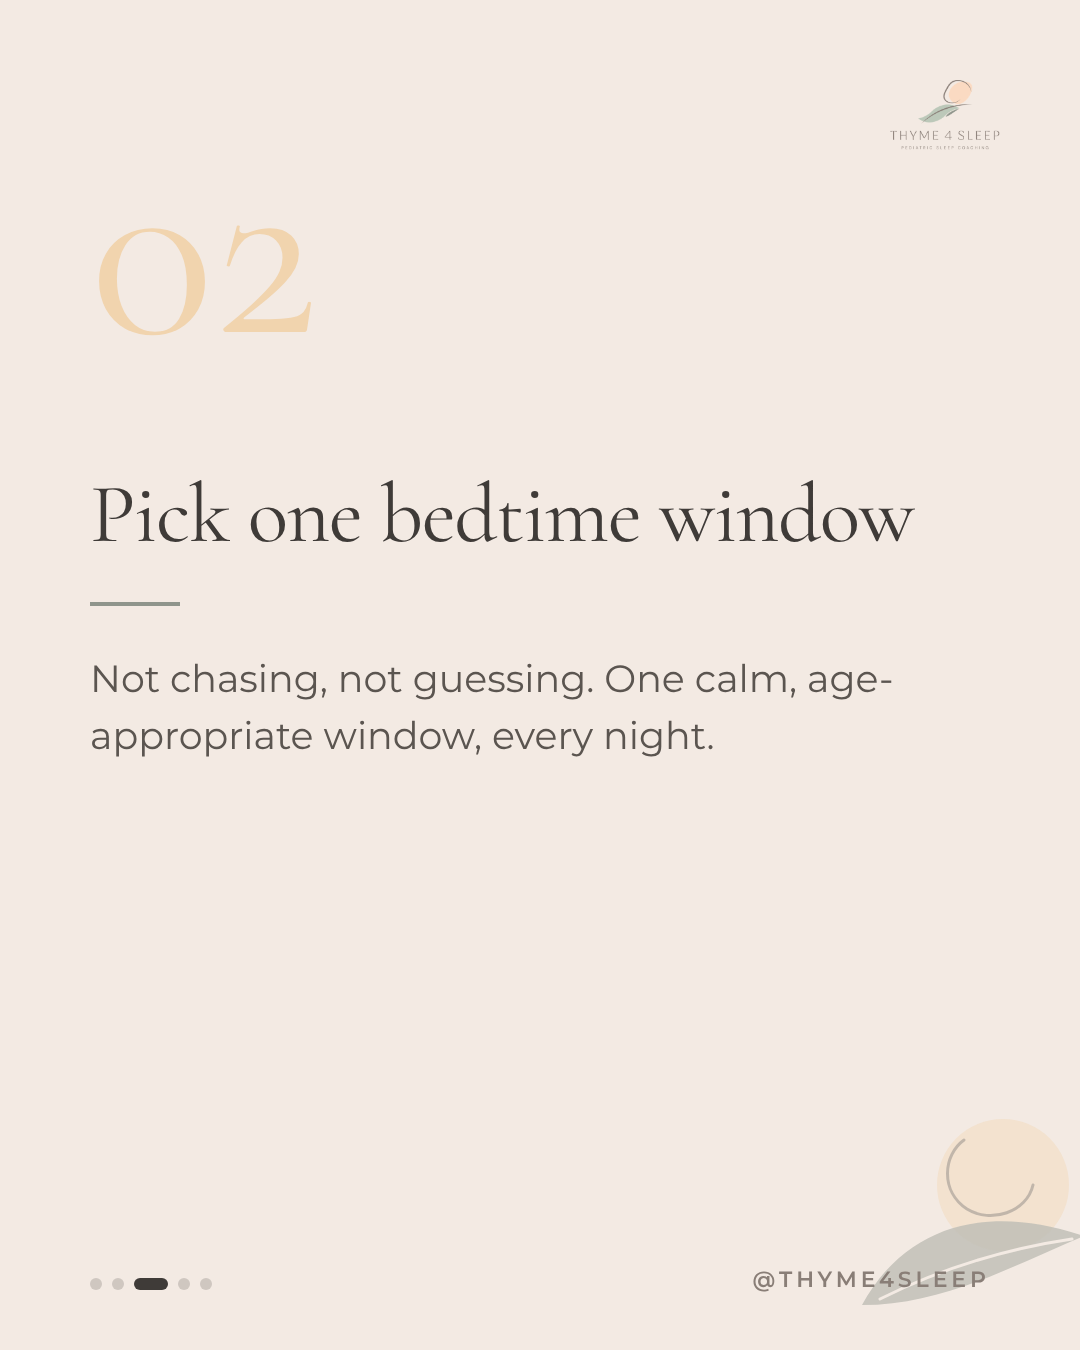
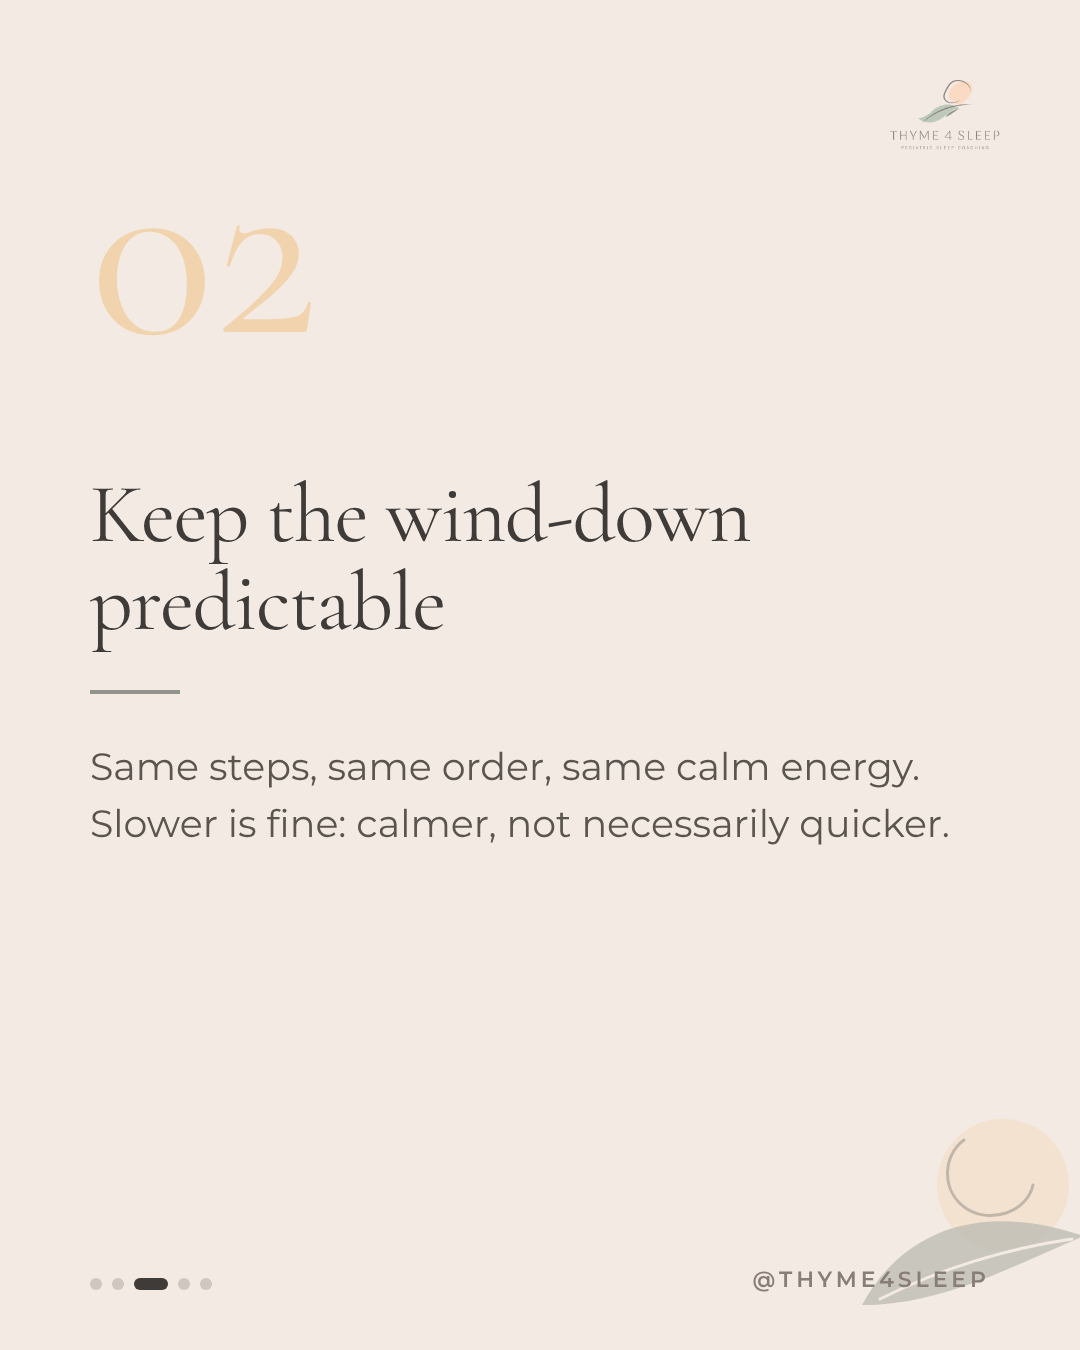
Social carousel: Gentle Sleep Reset slides match the published guide
"72-hour" becomes "3-5 day"; the steps are now the guide's Step 1
(one bedtime window, a predictable wind-down, the same response
overnight) instead of the old draft's morning wake-up anchor. Caption,
social page title and flywheel plan updated; the five slides regenerated.

Claude-Session: https://claude.ai/code/session_016C6afFKqtu8sshRjZeDzo6

Changed region(s): [[0.0917, 0.4978, 0.8556, 0.6222], [0.0917, 0.3422, 0.8556, 0.4667]]

diff --git a/src/data/social.ts b/src/data/social.ts
@@ -11,11 +11,12 @@ export const CAROUSEL_REGRESSION = [
 ];
 
 export const CAROUSEL_RESET = [
-  { kind: 'cover', title: 'The 72-hour', accent: 'Gentle Sleep Reset', sub: 'After illness, travel or a rough patch', img: 'lamp-sleep' },
-  { kind: 'point', n: '01', title: 'Anchor the morning', body: 'Same wake-up time, within 30 minutes — even after a terrible night. It rebuilds sleep pressure and resets the body clock.' },
-  { kind: 'point', n: '02', title: 'Pick one bedtime window', body: 'Not chasing, not guessing. One calm, age-appropriate window, every night.' },
-  { kind: 'point', n: '03', title: 'Choose one response', body: 'Decide how you’ll respond to wake-ups — and do it the same way every time. Predictable feels safe.' },
-  { kind: 'cta', title: 'Change nothing else for 3 nights.', body: 'Get the full free guide — link in bio.', img: 'baby-feet' },
+  // Follows Step 1 of the published Gentle Sleep Reset: stabilise for 3–5 days before changing anything
+  { kind: 'cover', title: 'The 3–5 day', accent: 'Gentle Sleep Reset', sub: 'After illness, travel or a rough patch', img: 'lamp-sleep' },
+  { kind: 'point', n: '01', title: 'Keep one bedtime window', body: 'Bedtime within the same 30 minutes, every night. Consistency calms the nervous system, and a regulated child settles more easily.' },
+  { kind: 'point', n: '02', title: 'Keep the wind-down predictable', body: 'Same steps, same order, same calm energy. Slower is fine: calmer, not necessarily quicker.' },
+  { kind: 'point', n: '03', title: 'Respond the same way overnight', body: 'One calm, familiar response to wake-ups, every time. No new strategies, no sudden changes. Predictable feels safe.' },
+  { kind: 'cta', title: 'Hold steady for 3–5 days.', body: 'Get the full free guide — link in bio.', img: 'baby-feet' },
 ];
 
 export const QUOTES = [
@@ -33,7 +34,7 @@ export const STORIES = [
 
 export const CAPTIONS = [
   { for: 'Carousel · Regression or habit?', text: 'Is it a regression… or has it become a habit? 🌙\n\nRegressions are real — and they end. But when the cold has cleared, the tooth is through and the trip is over, the patterns we leaned on to get through it often stay behind.\n\nSwipe for the 5 signs, then take my free 2-minute Sleep Snapshot (link in bio) to find out what’s really driving your little one’s wake-ups. 💛\n\n#babysleep #sleepregression #gentlesleep #toddlersleep #pediatricsleepcoach #nocryitout #thyme4sleep' },
-  { for: 'Carousel · 72-hour reset', text: 'Sleep fell apart after a rough patch? Before you change everything, do less — more consistently. 🌿\n\nFor the next 72 hours: anchor the morning, pick one bedtime window, and choose one calm response to wake-ups. That’s it.\n\nMy free Gentle Sleep Reset guide walks you through it step by step — link in bio.\n\n#gentlesleep #babysleeptips #sleeptraining #newmom #toddlermom #thyme4sleep' },
+  { for: 'Carousel · 3–5 day reset', text: 'Sleep fell apart after a rough patch? Before you change everything, do less — more consistently. 🌿\n\nFor the next 3–5 days: keep bedtime within the same 30-minute window, keep the wind-down predictable, and respond to wake-ups the same calm way every time. That’s it.\n\nMy free Gentle Sleep Reset guide walks you through it step by step — link in bio.\n\n#gentlesleep #babysleeptips #sleeptraining #newmom #toddlermom #thyme4sleep' },
   { for: 'Quote card', text: 'Comfort is never removed. Confusion is. 🤍\n\nGentle sleep coaching isn’t about stepping away from your child. It’s about responding in a way that’s calm, clear and the same every time — so they always know what comes next.\n\n#gentleparenting #babysleep #nocryitout #thyme4sleep' },
   { for: 'Story · Calm Nights launch', text: 'It’s here 🌙 The Calm Nights Method — a structured, self-guided 14-night programme for families ready to do it themselves. Six clear steps, two gentle starting points and check-ins at nights 4, 7 and 14. Tap the link to see if it’s right for you.' },
 ];
